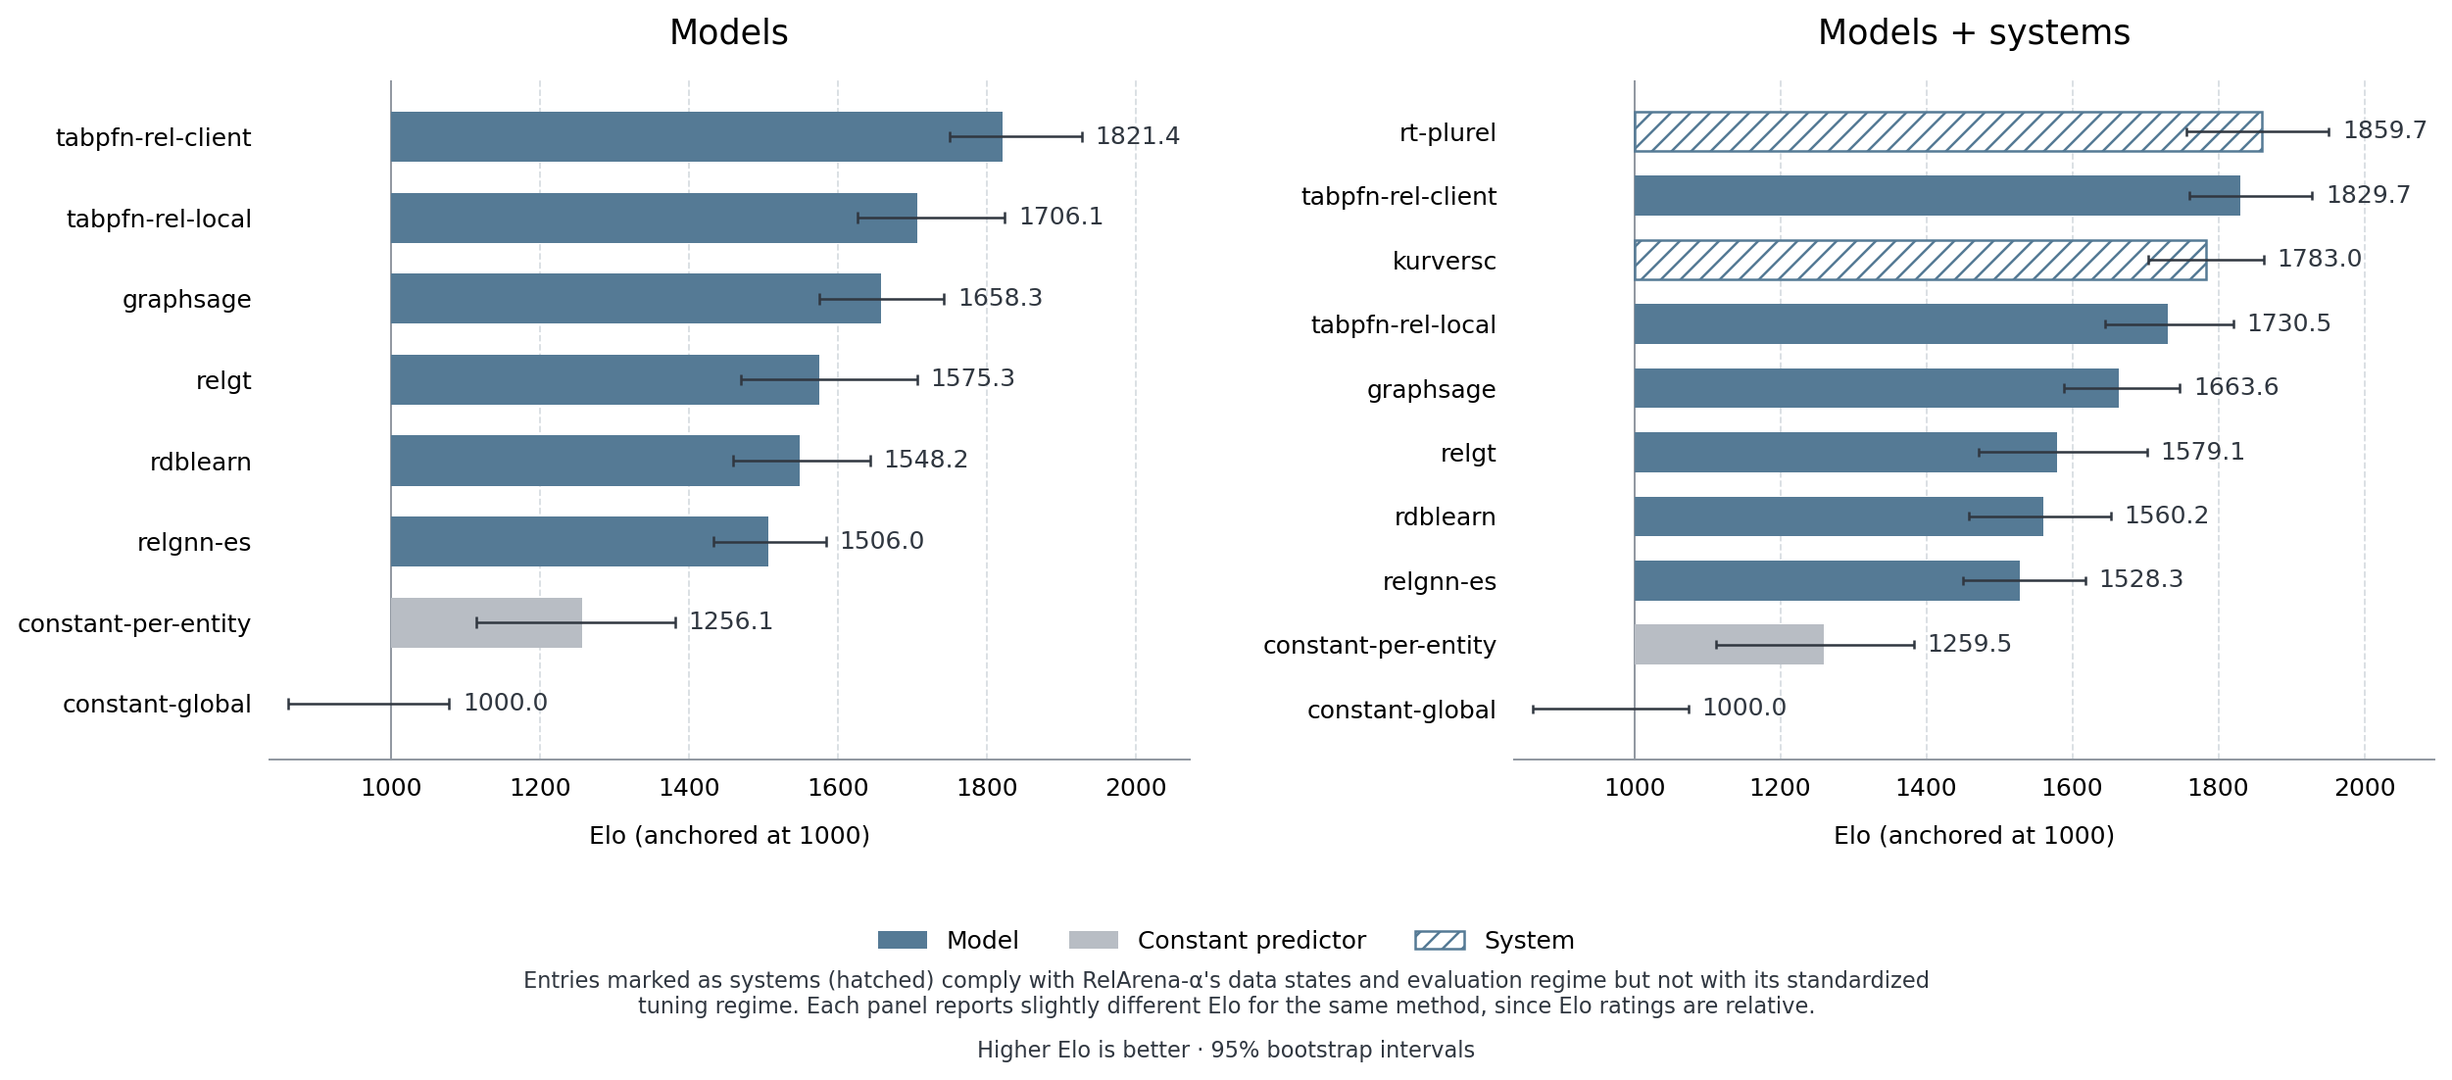
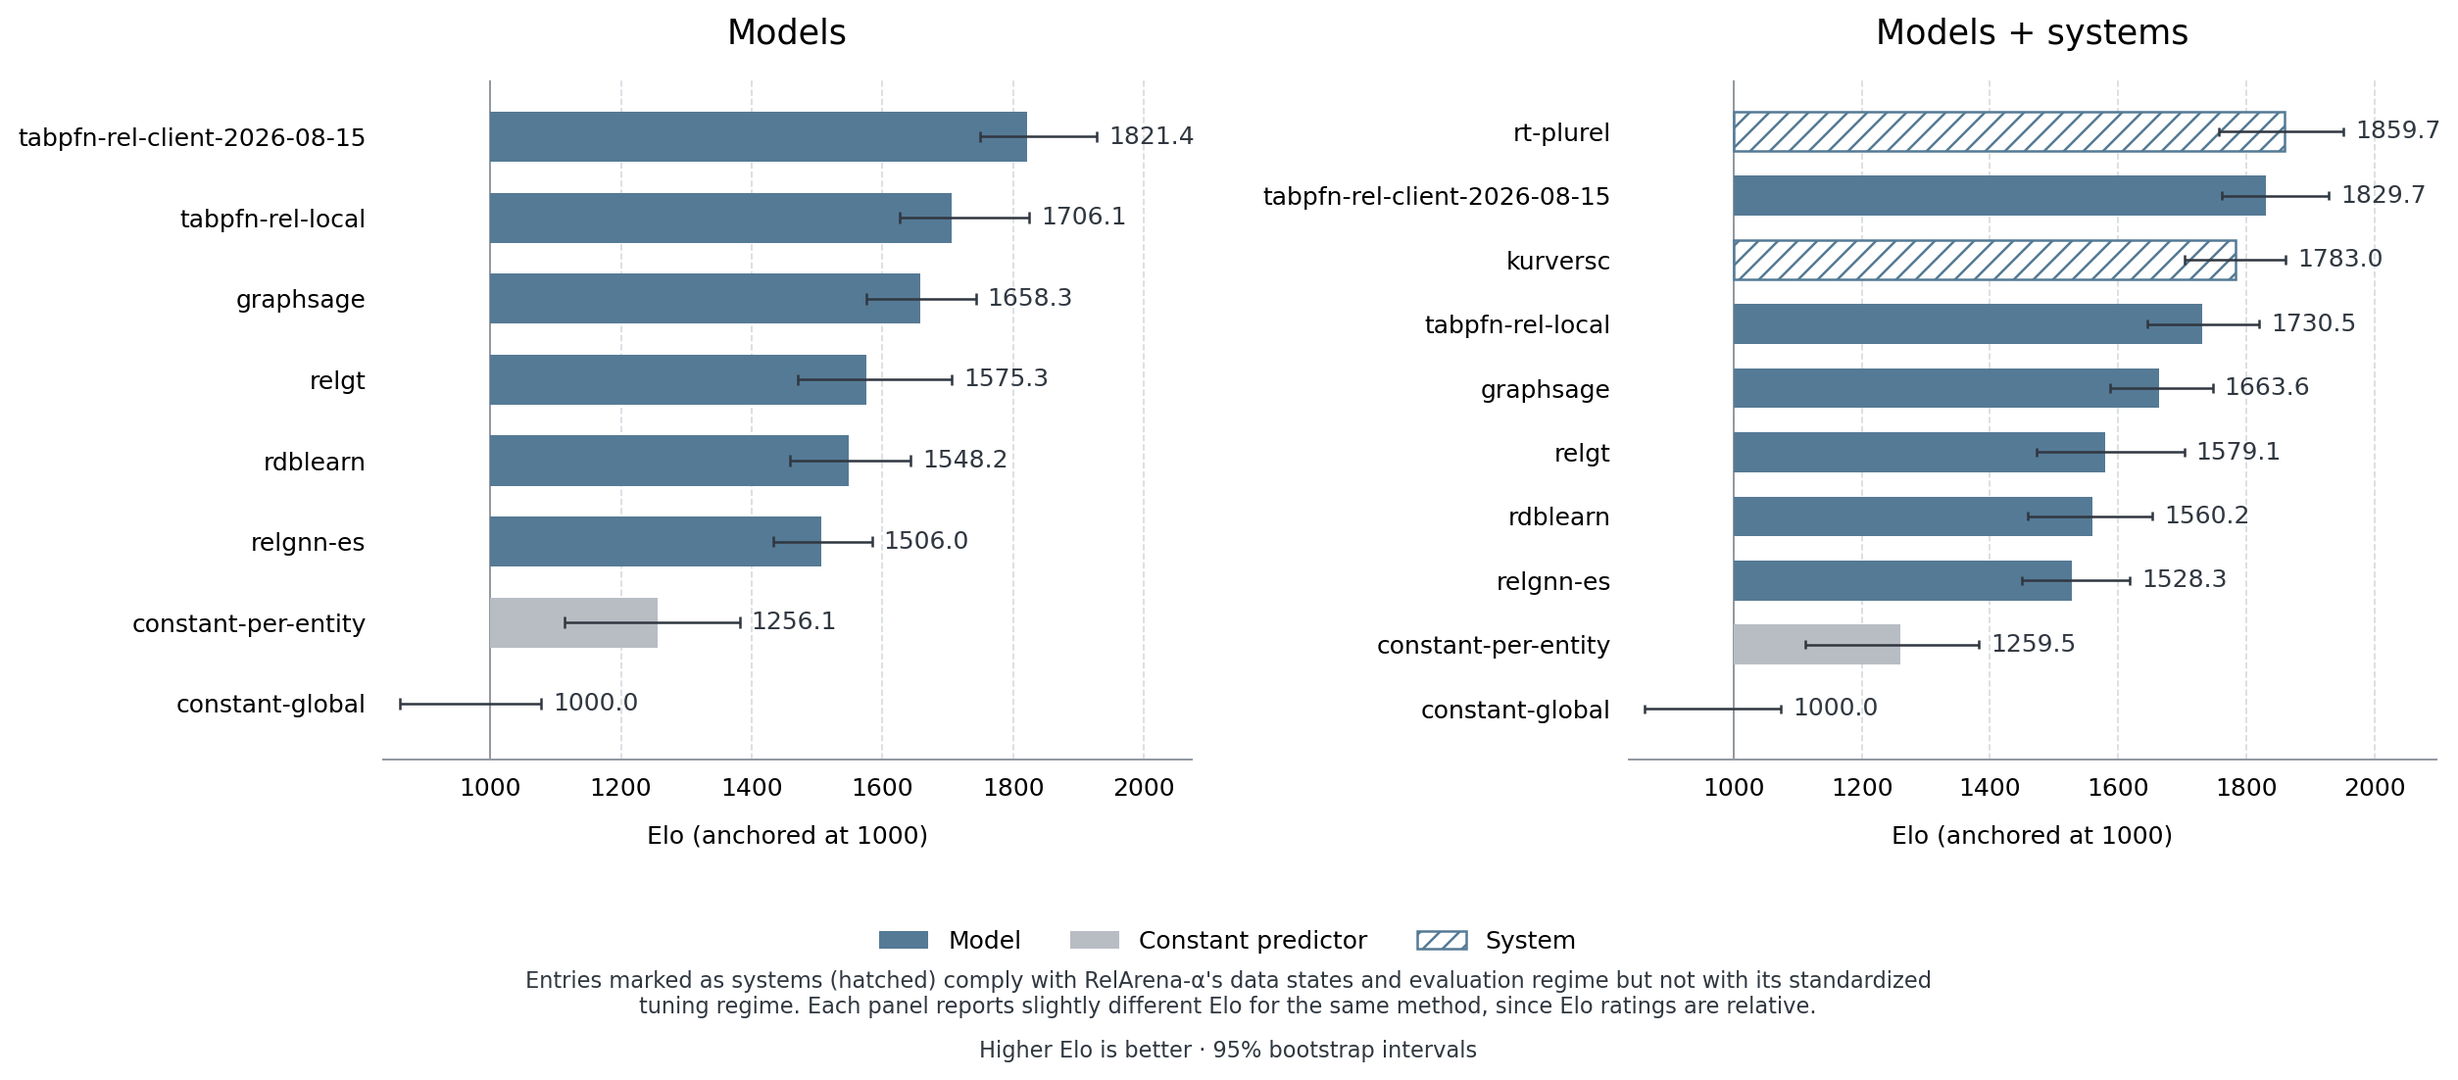
Add dated depth-four TabPFN 3.5 API submission

diff --git a/packages/tabpfn-rel/tests/test_model.py b/packages/tabpfn-rel/tests/test_model.py
@@ -25,8 +25,10 @@ from tabpfn_rel import model as model_mod
 from tabpfn_rel import tfm
 from tabpfn_rel.context import hard_pool_subsample_indices
 from tabpfn_rel.model import (
+    TABPFN_REL_CLIENT_20260918_SPACE,
     TABPFN_REL_CLIENT_SPACE,
     TABPFN_REL_LOCAL_SPACE,
+    TabPFNRelClient20260918Model,
     TabPFNRelClientModel,
     TabPFNRelLocalModel,
     TabPFNRelModel,
@@ -63,8 +65,10 @@ def test__local_space__default_is_the_validated_config() -> None:
 
 def test__client_model__registered_with_client_tfm_and_text() -> None:
     discover_models()
-    assert registry.get("tabpfn-rel-client") is TabPFNRelClientModel
-    assert registry.search_space("tabpfn-rel-client") is TABPFN_REL_CLIENT_SPACE
+    assert registry.get("tabpfn-rel-client-2026-08-15") is TabPFNRelClientModel
+    assert (
+        registry.search_space("tabpfn-rel-client-2026-08-15") is TABPFN_REL_CLIENT_SPACE
+    )
     default = TABPFN_REL_CLIENT_SPACE.default_overrides
     assert default["tfm"] == "tabpfn-v3-api"
     assert default["with_text"] is True
@@ -352,3 +356,24 @@ def test__fit__with_text_on_a_textless_tfm__raises(
             val_table=None,
             seed=0,
         )
+
+
+def test_dated_client_has_one_fixed_depth_four_configuration() -> None:
+    discover_models()
+    name = "tabpfn-rel-client-2026-09-18"
+    assert registry.get(name) is TabPFNRelClient20260918Model
+    space = registry.search_space(name)
+    assert space is TABPFN_REL_CLIENT_20260918_SPACE
+    assert not space.is_tunable
+    assert space.configs(n_trials=10, seed=0) == [
+        {
+            "tfm": "tabpfn-v3.5-api",
+            "context_strategy": "hard_pool",
+            "subsample_samples": 200_000,
+            "pool_inflation": 4.0,
+            "with_text": True,
+            "max_depth": 4,
+        }
+    ]
+    assert TabPFNRelClient20260918Model.fit is TabPFNRelModel.fit
+    assert TabPFNRelClient20260918Model.predict is TabPFNRelModel.predict

diff --git a/packages/tabpfn-rel/src/tabpfn_rel/tfm.py b/packages/tabpfn-rel/src/tabpfn_rel/tfm.py
@@ -70,12 +70,13 @@ def _sanitize_api_overrides(overrides: dict[str, Any]) -> dict[str, Any]:
 
 def _make_tabpfn_api(
     *,
+    model_path: str,
     regression: bool,
     device: Any,
     seed: int,
     **overrides: Any,
 ) -> Any:
-    """Build a TabPFN API-client estimator pinned to the v3 model.
+    """Build a TabPFN API-client estimator for an explicit model selector.
 
     The api extra supplies tabpfn_client; it is imported when constructed.
     Fit and predict
@@ -89,7 +90,7 @@ def _make_tabpfn_api(
     overrides = _sanitize_api_overrides(overrides)
     estimator_cls = ApiRegressor if regression else ApiClassifier
     return estimator_cls(
-        model_path="v3_default",
+        model_path=model_path,
         random_state=seed,
         ignore_pretraining_limits=True,
         **overrides,
@@ -107,9 +108,23 @@ TFM_REGISTRY: dict[str, TFMSpec] = {
         max_train_samples=100_000,
     ),
     "tabpfn-v3-api": TFMSpec(
-        make_classifier=lambda **kw: _make_tabpfn_api(regression=False, **kw),
-        make_regressor=lambda **kw: _make_tabpfn_api(regression=True, **kw),
+        make_classifier=lambda **kw: _make_tabpfn_api(
+            model_path="v3_default", regression=False, **kw
+        ),
+        make_regressor=lambda **kw: _make_tabpfn_api(
+            model_path="v3_default", regression=True, **kw
+        ),
         max_train_samples=100_000,
+        supports_text=True,
+    ),
+    "tabpfn-v3.5-api": TFMSpec(
+        make_classifier=lambda **kw: _make_tabpfn_api(
+            model_path="v3.5_default", regression=False, **kw
+        ),
+        make_regressor=lambda **kw: _make_tabpfn_api(
+            model_path="v3.5_default", regression=True, **kw
+        ),
+        max_train_samples=200_000,
         supports_text=True,
     ),
 }

diff --git a/packages/tabpfn-rel/tests/test_integration.py b/packages/tabpfn-rel/tests/test_integration.py
@@ -60,7 +60,7 @@ def query(
         "RELARENA_DISABLE_FEATURE_CACHE",
     ):
         monkeypatch.delenv(variable, raising=False)
-    for name in ("tabpfn-v3", "tabpfn-v3-api"):
+    for name in ("tabpfn-v3", "tabpfn-v3-api", "tabpfn-v3.5-api"):
         monkeypatch.setitem(
             tfm.TFM_REGISTRY,
             name,
@@ -76,7 +76,7 @@ def query(
 @pytest.mark.parametrize(
     "query", ["binary_classification", "regression"], indirect=True
 )
-@pytest.mark.parametrize("backend", ["local", "client"])
+@pytest.mark.parametrize("backend", ["local", "client-2026-08-15", "client-2026-09-18"])
 @pytest.mark.parametrize("n_trials", [0, 2])
 def test_rpi_fits_tunes_and_reuses_prediction_cache(
     query: PredictiveQuery, backend: str, n_trials: int, tmp_path: Path
@@ -87,13 +87,15 @@ def test_rpi_fits_tunes_and_reuses_prediction_cache(
     assert sorted(predictions["customer_id"]) == ["a", "b", "c", "d"]
     assert predictions["y_pred"].notna().all()
     assert len(query.compute_test_labels()) == 4
-    assert query.config["max_depth"] in (2, 3)
+    assert query.config["max_depth"] in (
+        (4,) if backend == "client-2026-09-18" else (2, 3)
+    )
     if n_trials:
-        assert len(query.trials) == 2
+        assert len(query.trials) == (1 if backend == "client-2026-09-18" else 2)
         assert all(trial.val_score is not None for trial in query.trials)
     else:
         assert query.trials is None
-    if backend == "client":
+    if backend.startswith("client"):
         assert "description__raw_text" in query._model._fitted.estimator.columns_
     assert list((tmp_path / "cache").rglob("*.parquet"))
 

diff --git a/packages/tabpfn-rel/src/tabpfn_rel/model.py b/packages/tabpfn-rel/src/tabpfn_rel/model.py
@@ -23,10 +23,12 @@ DFS matrix is content-cached, so the downsample / pool selection happens cheaply
 afterward (rather than being fused into a pre-DFS slice); text is handled inside
 the estimator at fit time.
 
-Two variants are registered, sharing the config validated in the reference sweeps —
+The local and 2026-08-15 API variants share the configuration —
 TabPFN v3 with hard-pool recency contexts (`K=100k`, `M=4·K`), tuned over DFS depth
-only: `tabpfn-rel-local` runs the local TabPFN v3, and `tabpfn-rel-client` runs
+only: `tabpfn-rel-local` runs the local TabPFN v3, and
+`tabpfn-rel-client-2026-08-15` runs
 through the hosted TabPFN API with anchor-table text passed through raw.
+The 2026-09-18 API variant uses TabPFN 3.5, fixed DFS depth 4, and K=200k.
 """
 
 from __future__ import annotations
@@ -187,4 +189,23 @@ class TabPFNRelLocalModel(TabPFNRelModel):
 class TabPFNRelClientModel(TabPFNRelModel):
     """`tabpfn-rel` through the hosted TabPFN API, with raw anchor-table text."""
 
-    name = "tabpfn-rel-client"
+    name = "tabpfn-rel-client-2026-08-15"
+
+
+TABPFN_REL_CLIENT_20260918_SPACE = SearchSpace(
+    default_overrides={
+        "tfm": "tabpfn-v3.5-api",
+        "context_strategy": "hard_pool",
+        "subsample_samples": 200_000,
+        "pool_inflation": 4.0,
+        "with_text": True,
+        "max_depth": 4,
+    },
+)
+
+
+@register_model(search_space=TABPFN_REL_CLIENT_20260918_SPACE)
+class TabPFNRelClient20260918Model(TabPFNRelModel):
+    """Hosted TabPFN 3.5 with depth-four DFS and 200k recency contexts."""
+
+    name = "tabpfn-rel-client-2026-09-18"

diff --git a/packages/tabpfn-rel/tests/test_tfm.py b/packages/tabpfn-rel/tests/test_tfm.py
@@ -17,8 +17,10 @@ def test_tabpfn_v3_spec_has_no_text_support() -> None:
     assert not tfm.TFM_REGISTRY["tabpfn-v3"].supports_text
 
 
-def test_tabpfn_v3_api_spec_builds_the_client_estimator(
+@pytest.mark.parametrize("version", ["v3", "v3.5"])
+def test_tabpfn_api_spec_builds_the_client_estimator(
     monkeypatch: pytest.MonkeyPatch,
+    version: str,
 ) -> None:
 
     captured: dict[str, object] = {}
@@ -32,18 +34,18 @@ def test_tabpfn_v3_api_spec_builds_the_client_estimator(
     module.TabPFNRegressor = _ApiEstimator  # type: ignore[attr-defined]
     monkeypatch.setitem(sys.modules, "tabpfn_client", module)
 
-    spec = tfm.TFM_REGISTRY["tabpfn-v3-api"]
+    spec = tfm.TFM_REGISTRY[f"tabpfn-{version}-api"]
     estimator = spec.make_classifier(device="cuda", seed=7)
 
     assert isinstance(estimator, _ApiEstimator)
     # device is server-side and never forwarded to the client constructor.
     assert captured == {
-        "model_path": "v3_default",
+        "model_path": f"{version}_default",
         "random_state": 7,
         "ignore_pretraining_limits": True,
     }
     assert isinstance(spec.make_regressor(device="cpu", seed=7), _ApiEstimator)
-    assert captured["model_path"] == "v3_default"
+    assert captured["model_path"] == f"{version}_default"
     # The API handles raw text natively.
     assert spec.supports_text
 

diff --git a/packages/tabpfn-rel/tests/test_package.py b/packages/tabpfn-rel/tests/test_package.py
@@ -20,7 +20,8 @@ import {first}
 import relarena_core
 import tabpfn_rel
 assert set(relarena_core.registry.names()) == {{
-    'tabpfn-rel-local', 'tabpfn-rel-client'
+    'tabpfn-rel-local', 'tabpfn-rel-client-2026-08-15',
+    'tabpfn-rel-client-2026-09-18'
 }}
 assert 'relarena.models' not in sys.modules
 for name in ('tabpfn', 'tabpfn_client', 'fastdfs'):
@@ -29,7 +30,7 @@ relarena_core.discover_models()
 relarena_core.discover_models()
 local = relarena_core.registry.get('tabpfn-rel-local')
 assert local is tabpfn_rel.TabPFNRelLocalModel
-client = relarena_core.registry.get('tabpfn-rel-client')
+client = relarena_core.registry.get('tabpfn-rel-client-2026-08-15')
 assert client is tabpfn_rel.TabPFNRelClientModel
 assert 'tabpfn' not in sys.modules
 assert 'tabpfn_client' not in sys.modules

diff --git a/packages/relarena/src/relarena/userdb/relbench_v1/__init__.py b/packages/relarena/src/relarena/userdb/relbench_v1/__init__.py
@@ -9,7 +9,7 @@ Pair a task with parquet from `materialize_relbench` and run it:
 
     materialize_relbench("rel-f1", "data/rel-f1")
     spec = relbench_v1_spec("rel-f1", "driver-dnf", data_dir="data/rel-f1")
-    preds = PredictiveQuery(spec).fit(model="tabpfn-rel-client").predict()
+    preds = PredictiveQuery(spec).fit(model="tabpfn-rel-client-2026-08-15").predict()
 
 The specs reproduce RelBench's own `make_table` output byte-for-byte (verified
 across all 21 tasks), including its split timestamps. The materialized tables are

diff --git a/packages/relarena/tests/workflows/test_update_leaderboards.py b/packages/relarena/tests/workflows/test_update_leaderboards.py
@@ -84,7 +84,7 @@ def test__check__detects_stale_content_without_writing(
     if stale_path is not None:
         path = generated.ROOT / stale_path
         path.write_bytes(
-            path.read_bytes().replace(b"tabpfn-rel-client", b"stale") + b"\n"
+            path.read_bytes().replace(b"tabpfn-rel-client-2026-08-15", b"stale") + b"\n"
         )
     paths = [
         generated.ROOT / "README.md",

diff --git a/examples/olist_seller_churn.py b/examples/olist_seller_churn.py
@@ -130,7 +130,7 @@ if __name__ == "__main__":
     )
     model = {
         "local": "tabpfn-rel-local",
-        "client": "tabpfn-rel-client",
+        "client": "tabpfn-rel-client-2026-08-15",
     }[args.backend]
     n_trials = (
         args.n_trials

diff --git a/README.md b/README.md
@@ -65,7 +65,7 @@ they do not measure variation across training seeds. The plots and tables show t
 
 | Rank | Method | Kind | Elo | 95% bootstrap interval |
 |---:|---|---|---:|---:|
-| 1 | tabpfn-rel-client | Model | 1821.4 | 1749.9–1927.4 |
+| 1 | tabpfn-rel-client-2026-08-15 | Model | 1821.4 | 1749.9–1927.4 |
 | 2 | tabpfn-rel-local | Model | 1706.1 | 1626.4–1824.3 |
 | 3 | graphsage | Model | 1658.3 | 1574.7–1742.7 |
 | 4 | relgt | Model | 1575.3 | 1470.1–1706.2 |
@@ -83,7 +83,7 @@ they do not measure variation across training seeds. The plots and tables show t
 | Rank | Method | Kind | Elo | 95% bootstrap interval |
 |---:|---|---|---:|---:|
 | 1 | rt-plurel | System | 1859.7 | 1756.5–1951.5 |
-| 2 | tabpfn-rel-client | Model | 1829.7 | 1761.0–1928.7 |
+| 2 | tabpfn-rel-client-2026-08-15 | Model | 1829.7 | 1761.0–1928.7 |
 | 3 | kurversc | System | 1783.0 | 1703.6–1861.7 |
 | 4 | tabpfn-rel-local | Model | 1730.5 | 1645.5–1820.1 |
 | 5 | graphsage | Model | 1663.6 | 1588.1–1747.4 |
@@ -265,7 +265,7 @@ from RDBLearn and improves on it in four ways:
 from tabpfn_rel import PredictiveQuery, PredictiveQuerySpec
 
 spec = PredictiveQuerySpec.from_yaml("task.yaml", data_dir="data/")
-predictions = PredictiveQuery(spec).fit("tabpfn-rel-client", n_trials=0).predict()
+predictions = PredictiveQuery(spec).fit("tabpfn-rel-client-2026-08-15", n_trials=0).predict()
 ```
 
 Use model name `tabpfn-rel-local` for local inference. `n_trials=0` fits the
@@ -612,7 +612,8 @@ as an experimental final-fit variant.
 | `kurversc` | [KurveRSC](docs/models/kurversc.md) | learned GraphReduce feature plan + CatBoost | **system** | experimental | train + val | `kurversc` |
 | `rdblearn` | RDBLearn | DFS + tabular foundation model | model | report | train; val retained | `rdblearn` |
 | `tabpfn-rel-local` | TabPFN-Rel (OSS) | DFS + TabPFN-3 | model | report | train + val | `tabpfn-rel-local` |
-| `tabpfn-rel-client` | TabPFN-Rel (API) | DFS + hosted TabPFN-3 with text | model | report | train + val | `tabpfn-rel-api` |
+| `tabpfn-rel-client-2026-08-15` | TabPFN-Rel (API) | DFS + hosted TabPFN-3 with text | model | report | train + val | `tabpfn-rel-api` |
+| `tabpfn-rel-client-2026-09-18` | TabPFN-Rel (API) | depth-4 DFS + hosted TabPFN-3.5 with text, 200k context | model | pending evaluation | train + val | `tabpfn-rel-api` |
 | `graphsage` | GraphSAGE | relational GNN | model | report | train + val | `graphsage` |
 | `relgnn-es` | RelGNN | relational GNN | model | report | best-validation checkpoint | `relgnn` |
 | `relgnn` | RelGNN full-data refit | relational GNN | model | experimental variant | train + val | `relgnn` |

diff --git a/docs/adding-a-model.md b/docs/adding-a-model.md
@@ -28,7 +28,7 @@ example to copy.
 
 One folder may register **several** models: `dummy` → `constant-global` +
 `constant-per-entity`, `relgnn` → `relgnn` + `relgnn-es`, `tabpfn_rel` →
-`tabpfn-rel-local` + `tabpfn-rel-client`.
+`tabpfn-rel-local` + `tabpfn-rel-client-2026-08-15`.
 
 ```python
 import numpy as np
@@ -436,7 +436,7 @@ Reuse an existing extra where the stack matches:
 | `lightgbm` | LightGBM | `lightgbm` |
 | `rdblearn` | DFS + local TabPFN | `rdblearn` |
 | `tabpfn-rel-local` | `tabpfn-rel[local]` plugin | `tabpfn-rel-local` |
-| `tabpfn-rel-api` | DFS + `tabpfn-client` | `tabpfn-rel-client` |
+| `tabpfn-rel-api` | DFS + `tabpfn-client` | `tabpfn-rel-client-2026-08-15` |
 | `rdl` | shared RDL stack: PyG, PyTorch Frame, text embedder | umbrella, not used directly |
 | `graphsage` / `relgnn` / `relgt` | `relarena[rdl]` (+ `einops`, `h5py` for `relgt`) | the GNN baselines |
 
@@ -552,7 +552,8 @@ Complete these steps on the submission branch before merging:
 | `constant-global`, `constant-per-entity` | `dummy/` | neither | `{}` | `True` | all | core | `predict_contract` |
 | `lightgbm` | `lightgbm/` | `space`, 14 params | `{}` | `True` | all | `lightgbm` | `featurization/entity`, `_shared/gbdt/lgb` |
 | `rdblearn` | `rdblearn/` | `fixed_grid`, TFM × depth | `{tfm: tabpfn-v2, max_depth: 2}` | `False` | all | `rdblearn` | `relarena_core.featurization/dfs` + cache, `relarena_core.tfm` |
-| `tabpfn-rel-local`, `tabpfn-rel-client` | external `tabpfn-rel` package | `fixed_grid` (one space each) | knobs + `max_depth: 2` | `True` | all | `tabpfn-rel-local` / `tabpfn-rel-api` | `relarena_core.featurization/dfs` + cache, `relarena_core.tfm` |
+| `tabpfn-rel-local`, `tabpfn-rel-client-2026-08-15` | external `tabpfn-rel` package | `fixed_grid` (one space each) | knobs + `max_depth: 2` | `True` | all | `tabpfn-rel-local` / `tabpfn-rel-api` | `relarena_core.featurization/dfs` + cache, `relarena_core.tfm` |
+| `tabpfn-rel-client-2026-09-18` | `tabpfn-rel` package | fixed configuration | depth 4, 200k hard-pool, TabPFN 3.5 API | `True` | all | `tabpfn-rel-api` | shared DFS + cache |
 | `graphsage` | `graphsage/` | `space` | explicit | `True` | binary, regression | `graphsage` | `_shared/gnn/{graph,training,_vendor/gnn}` |
 | `relgnn` (experimental) | `relgnn/` | `space` | explicit (modal per-task) | `True` | all | `relgnn` | `_shared/gnn`, own `_vendor/` |
 | `relgnn-es` (paper-facing RelGNN) | `relgnn/` | `space` (same as `relgnn`) | explicit | `False` | all | `relgnn` | as `relgnn` |

diff --git a/packages/tabpfn-rel/README.md b/packages/tabpfn-rel/README.md
@@ -44,7 +44,7 @@ query = PredictiveQuery(spec).fit("tabpfn-rel-local", n_trials=0)
 predictions = query.predict()
 ```
 
-Use `tabpfn-rel-client` for the hosted backend. `n_trials=0` fits the default
+Use `tabpfn-rel-client-2026-08-15` for the hosted backend. `n_trials=0` fits the default
 configuration once; a positive budget enables the shared temporal tuning protocol.
 API fits and predictions consume service quota. The predictive classes are the
 same classes exported by `relarena_core.userdb` and, when installed,
@@ -62,7 +62,23 @@ Larger budgets also evaluate deeper DFS configurations. Unlike RPI, a zero CLI
 budget evaluates no grid configurations.
 
 `relarena[tabpfn-rel-api]` installs the hosted backend, selected with
-`--model tabpfn-rel-client`.
+`--model tabpfn-rel-client-2026-08-15` for the TabPFN 3 depth grid.
+The fixed-depth submission `tabpfn-rel-client-2026-09-18` uses TabPFN 3.5
+through the API, DFS depth 4, raw text, and 200,000 rows per estimator drawn
+from a recency pool of up to 800,000 rows. It uses a single configuration
+and the standard single-stage predictor.
+
+To evaluate the source checkout without publishing a package release:
+
+```bash
+uv sync --locked --all-packages --extra tabpfn-rel-api
+uv run --no-sync relarena --model tabpfn-rel-client-2026-09-18 --seed 0 --n-trials 1 --output results.csv
+```
+
+Authenticate with the TabPFN client before evaluation. The backend selector is
+`v3.5_default`; the account must have access to that model family. This selector
+tracks the service's default checkpoint within 3.5, so record the source commit,
+lockfile, and evaluation date with results. It is not an immutable checkpoint ID.
 
 The CLI and predictive interface discover installed models automatically. Direct
 registry users call discovery explicitly:
